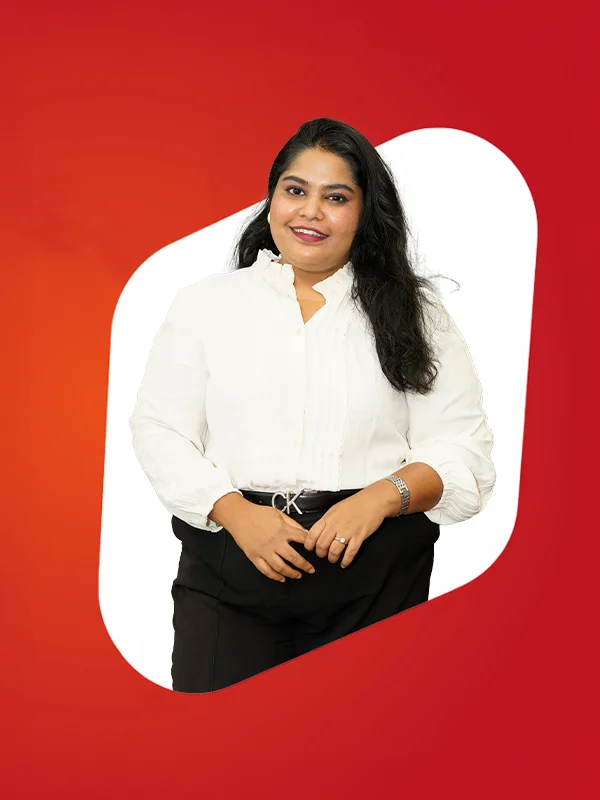
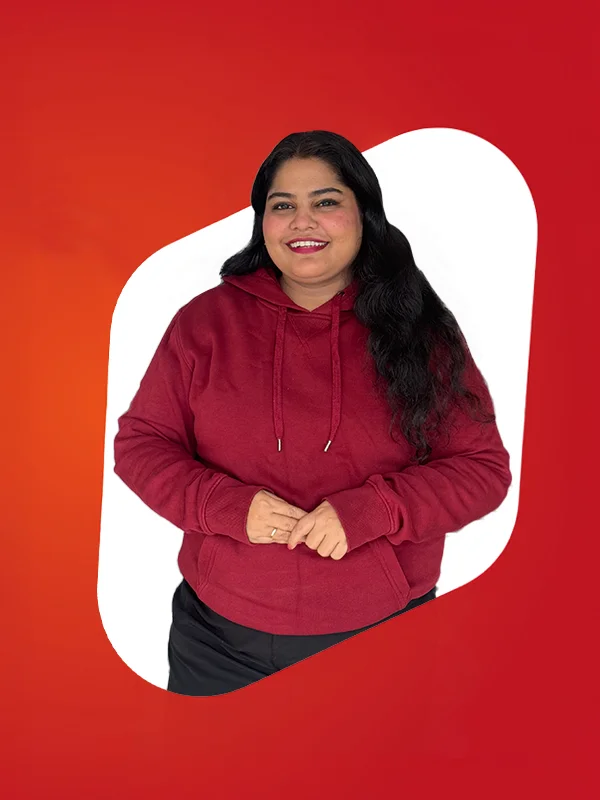
Services Pages Hero Section Updated with images

diff --git a/index.html b/index.html
@@ -2147,10 +2147,10 @@
                     </div>
                     <div class="mot-card">
                         <div class="mot-image-area">
-                            <img src="/assets/home-hero_assets/section_meet-our-team/jaskaran.webp">
+                            <img src="/assets/home-hero_assets/section_meet-our-team/robin.webp">
                         </div>
                         <div class="mot-text-area">
-                            <p>Jaskaran Singh<br><span>Mastermind of Market Dynamics</span></p>
+                            <p>Robin Ransom<br><span>Mastermind of Market Dynamics</span></p>
                         </div>
                     </div>
                 </div>

diff --git a/pages/services/ad-films-with-influencers.html b/pages/services/ad-films-with-influencers.html
@@ -240,7 +240,7 @@
           presence on Instagram, ensuring that every post, story, and ad speaks to their audience. -->
       </div>
       <div class="ig-column-right">
-        <img src="/assets/service-pages_assets/hero_section/Rectangle 231.png" />
+        <img src="/assets/service-pages_assets/hero_section/ad.webp" />
       </div>
     </div>
   </section>

diff --git a/pages/services/content-marketing.html b/pages/services/content-marketing.html
@@ -223,7 +223,7 @@
           presence on Instagram, ensuring that every post, story, and ad speaks to their audience. -->
       </div>
       <div class="ig-column-right">
-        <img src="https://imageplaceholder.net/630x550" />
+        <img src="/assets/service-pages_assets/hero_section/content.webp" />
       </div>
     </div>
   </section>

diff --git a/pages/services/product-reviews.html b/pages/services/product-reviews.html
@@ -222,7 +222,7 @@
           presence on Instagram, ensuring that every post, story, and ad speaks to their audience. -->
       </div>
       <div class="ig-column-right">
-        <img src="https://imageplaceholder.net/630x550" />
+        <img src="/assets/service-pages_assets/hero_section/product.webp" />
       </div>
     </div>
   </section>

diff --git a/pages/services/barter-campaigns.html b/pages/services/barter-campaigns.html
@@ -238,7 +238,7 @@
           presence on Instagram, ensuring that every post, story, and ad speaks to their audience. -->
       </div>
       <div class="ig-column-right">
-        <img src="https://imageplaceholder.net/630x550" />
+        <img src="/assets/service-pages_assets/hero_section/barter.webp" />
       </div>
     </div>
   </section>

diff --git a/pages/services/brand-integration.html b/pages/services/brand-integration.html
@@ -221,7 +221,7 @@
           presence on Instagram, ensuring that every post, story, and ad speaks to their audience. -->
       </div>
       <div class="ig-column-right">
-        <img src="https://imageplaceholder.net/630x550" />
+        <img src="/assets/service-pages_assets/hero_section/brand.webp" />
       </div>
     </div>
   </section>

diff --git a/pages/services/meme-marketing.html b/pages/services/meme-marketing.html
@@ -224,7 +224,7 @@
           presence on Instagram, ensuring that every post, story, and ad speaks to their audience. -->
       </div>
       <div class="ig-column-right">
-        <img src="https://imageplaceholder.net/630x550" />
+        <img src="/assets/service-pages_assets/hero_section/meme.webp" />
       </div>
     </div>
   </section>

diff --git a/pages/services/user-generated-content.html b/pages/services/user-generated-content.html
@@ -222,7 +222,7 @@
           presence on Instagram, ensuring that every post, story, and ad speaks to their audience. -->
       </div>
       <div class="ig-column-right">
-        <img src="https://imageplaceholder.net/630x550" />
+        <img src="/assets/service-pages_assets/hero_section/ugc.webp" />
       </div>
     </div>
   </section>

diff --git a/pages/services/celebrity-endorsements.html b/pages/services/celebrity-endorsements.html
@@ -219,7 +219,7 @@
         </p>
       </div>
       <div class="ig-column-right">
-        <img src="https://imageplaceholder.net/630x550" />
+        <img src="/assets/service-pages_assets/hero_section/celebrity.webp" />
       </div>
     </div>
   </section>

diff --git a/css/platform-page.css b/css/platform-page.css
@@ -76,7 +76,7 @@ section {
 }
 
 .ig-column-right img {
-  /* border-radius: 35px; */
+  border-radius: 72px;
   width: 100%;
 }
 
